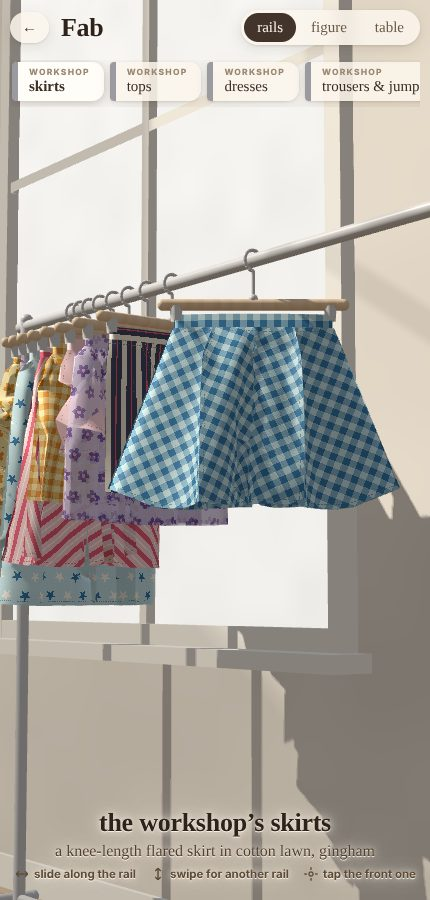
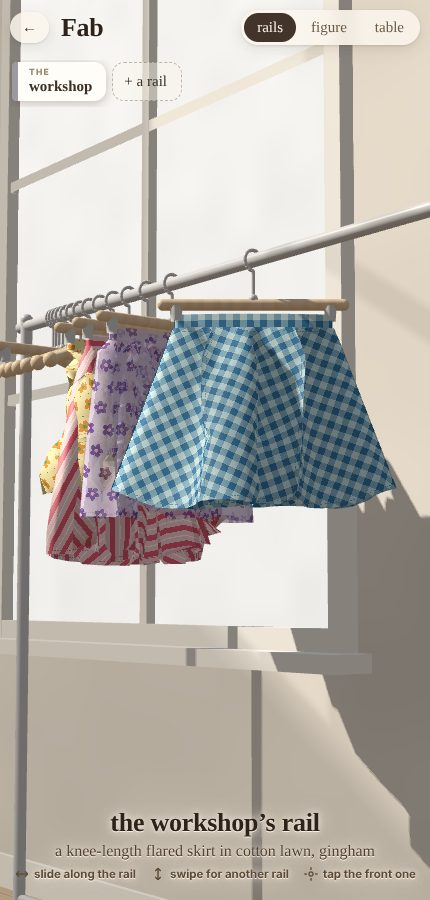
Fab: no idle orbit at the figure, one workshop rail, pin then sew
The figure turns only when turned. The workshop's four rails become one,
fourteen garments (the evidence bench still sews all 27). Sewing now pins
each piece round the figure as posed (sleeves along the arms, trouser legs
along the legs), holds it weightless while the seams close, then takes the
pins out, so a raised arm still goes through its armhole.

Claude-Session: https://claude.ai/code/session_01D2Nx3PayKJtFYoab5A57H3

diff --git a/cells/lab/client/fab/main.ts b/cells/lab/client/fab/main.ts
@@ -3,16 +3,17 @@
  * made. A skirt, a top, a dress, trousers or a jumpsuit, drafted to the figure (garment.ts), sewn up round it and let
  * fall as that cloth falls (cloth.ts): its silhouette, its folds and how it swings are never set, only found.
  *
- * It starts at the rails (rails.ts): along the workshop's wall, the workshop's rails (one for each kind of thing) and one
- * for each person, hung with what's been made. Slide a rail's garments along it, swipe up or down for the next rail,
+ * It starts at the rails (rails.ts): along the workshop's wall, the workshop's own rail (a few of each kind of thing) and
+ * one for each person, hung with what's been made. Slide a rail's garments along it, swipe up or down for the next rail,
  * tap the one in front to put it on the figure; it's taken off its hanger and sewn on, and the camera crosses the room.
  * **save to rail** hangs it back on its owner's rail (or a new rail, asking whose); going back to the **rails** does
  * too, if it's changed.
  *
  * At the figure, drag it round, pinch to come close; the drawer holds what it is (**make**: the kind of thing, and a
  * skirt's tiers), a bodice's neckline, sleeves and collar (**bodice**), trousers' legs (**legs**), and its cloth, print
- * and colour (each made your own with ⚙). **twirl** turns the figure on its stand; **sew** lays the pieces out flat
- * round it and sews them up again. The pattern's pinned up beside it: tap it to take it to the cutting table, where a
+ * and colour (each made your own with ⚙). **twirl** turns the figure on its stand; **sew** pins the pieces in place
+ * round it, as it stands (sleeves round its arms, legs round its legs, whatever the pose), sews them up, then takes
+ * the pins out and lets the cloth fall. The pattern's pinned up beside it: tap it to take it to the cutting table, where a
  * skirt (a dress's too) is made by hand on its paper: slash and spread, fold, gather, close or release a dart, every
  * move recorded. (A top's or trousers' pattern lies on the table to be looked at: moves on those pieces are next.)
  * Across the top, the room's three places: the rails, the figure, the table.
@@ -665,6 +666,21 @@ function setPosing(on: boolean) {
 $('posing').addEventListener('click', () => setPosing(!posing));
 $('unpose').addEventListener('click', () => { unpose(); keepPoses(); toast('standing as it was'); });
 setPosing(posing);
+// (the pins, while a garment's pinned to the figure to be sewn: glass heads, a few to a piece)
+const PIN_COLOURS = ['#d23a4a', '#f2c230', '#3a78c8', '#3f9a5a', '#f4f0e6', '#7a4bb0'];
+const pinEls: HTMLElement[] = [];
+function pinFrame() {
+  const heads = mode === 'bench' && lastVP ? [cloth, ...worn.filter((w) => w.id !== activeItem).map((w) => w.cloth)].flatMap((c) => c?.pinHeads() ?? []) : [];
+  const m = lastVP!;
+  heads.forEach((q, k) => {
+    let el = pinEls[k];
+    if (!el) { el = document.createElement('i'); el.className = 'pinhead'; el.style.background = PIN_COLOURS[k % PIN_COLOURS.length]; $('stage').appendChild(el); pinEls.push(el); }
+    const x = m[0] * q[0] + m[4] * q[1] + m[8] * q[2] + m[12], y = m[1] * q[0] + m[5] * q[1] + m[9] * q[2] + m[13], w = m[3] * q[0] + m[7] * q[1] + m[11] * q[2] + m[15];
+    el.style.display = w > 0 ? '' : 'none';
+    el.style.transform = `translate(${((x / w * 0.5 + 0.5) * canvas.clientWidth).toFixed(1)}px, ${((1 - (y / w * 0.5 + 0.5)) * canvas.clientHeight).toFixed(1)}px)`;
+  });
+  for (let k = heads.length; k < pinEls.length; k++) pinEls[k].style.display = 'none';
+}
 /** the figure's own frame to the room's: turned on its stand */
 const turned = (p: [number, number, number], a: number): [number, number, number] => { const c = Math.cos(a), s2 = Math.sin(a); return [p[0] * c + p[2] * s2, p[1], -p[0] * s2 + p[2] * c]; };
 /** where a joint is on the screen (css pixels), or null */
@@ -773,15 +789,15 @@ function loadOutfit(){
 const madeNow = () => JSON.stringify({ d, rec });
 let lastVP: Float32Array | null = null, toastT = 0, lastFront = -1;
 const toast = (t: string) => { const el = $('toast'); el.textContent = t; el.classList.add('show'); clearTimeout(toastT); toastT = window.setTimeout(() => el.classList.remove('show'), 2400); };
-const railName = (r: Rail) => (r.workshop ? (r.id === 'workshop' ? 'the workshop’s skirts' : `the workshop’s ${r.name.replace(/^the workshop: /, '')}`) : /rail/i.test(r.name) ? r.name : `${r.name}’s rail`);
+const railName = (r: Rail) => (r.workshop ? 'the workshop’s rail' : /rail/i.test(r.name) ? r.name : `${r.name}’s rail`);
 
 function railUI() {
   const tags = $('railtags'); tags.innerHTML = '';
   room.states.forEach((st, k) => {
     const b = document.createElement('button'); b.className = `tag${k === room.active ? ' on' : ''}`;
     b.style.setProperty('--c', st.rail.workshop ? '#9a9aa0' : RAIL_COLOURS[st.rail.colour % RAIL_COLOURS.length].css);
-    // (the workshop's own rails, one for each kind of thing, marked as the workshop's: a person's rail is just their name)
-    if (st.rail.workshop) { b.classList.add('ws'); b.innerHTML = `<small>workshop</small>${st.rail.id === 'workshop' ? 'skirts' : st.rail.name.replace(/^the workshop: /, '')}`; }
+    // (the workshop's own rail, marked as the workshop's: a person's rail is just their name)
+    if (st.rail.workshop) { b.classList.add('ws'); b.innerHTML = '<small>the</small>workshop'; }
     else b.textContent = st.rail.name;
     b.addEventListener('click', () => {
       // (tap your own rail's tag again to rename it; clear its name to take it away)
@@ -1193,7 +1209,8 @@ function frame(now: number) {
     // (looking at what's made: a skirt's or trousers' middle, a top's chest)
     const ty = qs.has('ty') ? BENCH_VIEW.target[1] : { skirt: 62, top: 82, dress: 70, trousers: 50, jumpsuit: 66 }[d.family];
     view.target[1] += (ty - view.target[1]) * (1 - Math.exp(-dt * 4));
-    if (!drag && !posing) { idle += dt; if (preview || idle > 8) view.az += dt * 0.1; }
+    // (it turns by itself only as the index's preview: at the figure, it stays where it's left)
+    if (preview) view.az += dt * 0.1;
   }
   if (mode === 'rails') { room.update(dt, 7); if (room.front() !== lastFront) railInfo(); }
   // (at the table, now and then: how big a fingertip is on the sheet from here, so its handles and badges are drawn a
@@ -1239,7 +1256,7 @@ function frame(now: number) {
   const shiftGoal = mode==='rails'?0: Math.min(canvas.clientHeight*.6,$('bench').getBoundingClientRect().height) / Math.max(1,canvas.clientHeight);
   view.shift += (shiftGoal - view.shift) * Math.min(1, dt * 6);
   lastVP = R.frame(view, items, w, h, cloth?.spin ?? 0, fit).vp;
-  poseFrame();
+  poseFrame(); pinFrame();
   renderMs = renderMs * 0.9 + (performance.now() - r0) * 0.1;
   frames++; framesWindow++; wallWindow += raw; wallTime += raw;
   // (once a second: the whole frame on this device, not only the cloth's part of it)
@@ -1273,7 +1290,7 @@ if (qs.has('twirl')) twirlUntil = performance.now() + 3200;
   // (for tests: the whole pattern's hems that can be worked with the tool in hand, where on the sheet)
   wholeHems: () => editor.handles.map(h=>({key:h.key,mid:[h.x,h.y]})),
   pieces: () => { const dpr = SHEET_W / Math.max(1, wholeCv.clientWidth); return laid.map((l) => ({ name: l.piece.name, mid: l.to(l.piece.flat(0.5, 0.5)).map((x) => x * dpr) })); },
-  pickWorn, jointOnScreen, setPosing, posedByHand,
+  pickWorn, jointOnScreen, setPosing, posedByHand, bend, gripAt, age: () => cloth?.age ?? 0,
   editor, journal:()=>journal, outfit:()=>worn.map(w=>({id:w.id,family:w.d.family,active:w.id===activeItem,health:w.cloth?.health()})),selectItem,
   // (for tests: where a point in the room is on the screen; where a point of the paper's sheet is)
   roomToScreen: (q: [number, number, number]) => { const m = lastVP!, x = m[0] * q[0] + m[4] * q[1] + m[8] * q[2] + m[12], y = m[1] * q[0] + m[5] * q[1] + m[9] * q[2] + m[13], w = m[3] * q[0] + m[7] * q[1] + m[11] * q[2] + m[15], r = canvas.getBoundingClientRect(); return [r.left + (x / w * 0.5 + 0.5) * r.width, r.top + (1 - (y / w * 0.5 + 0.5)) * r.height]; },

diff --git a/cells/lab/client/fab/cloth.ts b/cells/lab/client/fab/cloth.ts
@@ -25,6 +25,8 @@
  *   to meet.
  */
 import * as body from './body';
+/** how long the pins hold (s) while the seams close (they're drawn closed over the first 0.8 s), and how long they take to come out */
+const PIN_HOLD = 1.1, PIN_OUT = 0.5;
 import { physical, stiffAt, type Fabric } from './fabric';
 import type { At, Piece } from './pattern';
 
@@ -70,6 +72,22 @@ export class Cloth {
   rad!: Float32Array;
   collider: Collider | null; self: boolean; floor: boolean;
   age = 0;
+  /**
+   * Pinned, as a dressmaker pins the pieces on a stand before sewing: a few points inside each piece (clear of its
+   * edges, which the seams need) held where it was laid round the figure, in the figure's own frame, and the cloth
+   * weightless, while the seams are drawn closed; then the pins come out and it falls into its drape. So a sleeve's
+   * sewn round the arm it was laid on, however the arm's posed, and can't slip off it before it's a tube.
+   */
+  pinI = new Int32Array(0); pinAt = new Float32Array(0);
+  /** how pinned it still is, 1 → 0 */
+  pinned(): number { if (!this.pinI.length) return 0; const t = (this.age - PIN_HOLD) / PIN_OUT; return t <= 0 ? 1 : t >= 1 ? 0 : 1 - t * t * (3 - 2 * t); }
+  /** where its pins' heads are now (the room's frame), while it's pinned: a few a piece, for the figure to show */
+  pinHeads(): V3[] {
+    if (!this.pinned()) return [];
+    const out: V3[] = [];
+    for (let k = 0; k < this.pinI.length; k += 3) { const i3 = this.pinI[k] * 3; out.push([this.pos[i3], this.pos[i3 + 1], this.pos[i3 + 2]]); }
+    return out;
+  }
   /** goes up every step: whoever draws it knows when it's moved */
   version = 0;
   /** the figure's turn (radians) and how fast it's turning */
@@ -235,12 +253,30 @@ export class Cloth {
     }
     this.s0 = new Float32Array(sa.length);
     for (let c = 0; c < sa.length; c++) this.s0[c] = warm ? 0 : this.gap(c);
+    // (pins: inside each piece, clear of its edges; only for a garment sewn afresh, not one carried on warm)
+    if (!warm) {
+      const pi: number[] = [];
+      for (let k = 0; k < this.grids.length; k++) {
+        const g = this.grids[k];
+        for (const v of [0.3, 0.55, 0.8]) for (const u of [0.3, 0.5, 0.7]) { const i = g.base + Math.round(u * g.nu) + Math.round(v * g.nv) * (g.nu + 1); if (this.inv[i] > 0 && !pi.includes(i)) pi.push(i); }
+      }
+      this.pinI = new Int32Array(pi); this.pinAt = new Float32Array(pi.length * 3);
+      pi.forEach((i, k) => this.pinAt.set(this.toBody(i), k * 3));
+    }
     this.hFrom = new Float32Array(this.hi.length * 3);
     for (let k = 0; k < this.hi.length; k++) this.hFrom.set(this.toBody(this.hi[k]), k * 3);
     this.wait = new Uint8Array(n);
     this.normals();
   }
 
+  /** each pin draws its point back to where it was laid (in the figure's frame, so they turn with it), as firmly as it's still pinned */
+  private pins(pw: number) {
+    const cs = Math.cos(this.spin), sn = Math.sin(this.spin), { pos, pinI, pinAt } = this, k0 = 0.6 * pw;
+    for (let k = 0; k < pinI.length; k++) {
+      const i3 = pinI[k] * 3, x = pinAt[k * 3], y = pinAt[k * 3 + 1], z = pinAt[k * 3 + 2];
+      pos[i3] += (x * cs + z * sn - pos[i3]) * k0; pos[i3 + 1] += (y - pos[i3 + 1]) * k0; pos[i3 + 2] += (-x * sn + z * cs - pos[i3 + 2]) * k0;
+    }
+  }
   /** where a place on a piece is (u, v across and down it), between its four nearest points */
   sample(k: number, u: number, v: number, positions = this.pos): V3 {
     const g = this.grids[k], x = u * g.nu, y = v * g.nv, i = Math.min(g.nu - 1, Math.floor(x)), j = Math.min(g.nv - 1, Math.floor(y)), fx = x - i, fy = y - j, W = g.nu + 1;
@@ -264,6 +300,8 @@ export class Cloth {
     this.lastH=h;
     for (let s = 0; s < S; s++) {
       this.age += h; this.spin += this.omega * h;
+      // (pinned, it's weightless: it falls as the pins come out)
+      const pw = this.pinned(), fall = 1 - pw;
       // (predict: what it's moving, less the air's drag through it, and gravity)
       for (let i = 0; i < n; i++) {
         if (inv[i] === 0) continue;
@@ -273,7 +311,7 @@ export class Cloth {
         vx -= nor[i3] * vn * k; vy -= nor[i3 + 1] * vn * k; vz -= nor[i3 + 2] * vn * k;
         const damp = 1 - 0.6 * h;
         prev[i3] = pos[i3]; prev[i3 + 1] = pos[i3 + 1]; prev[i3 + 2] = pos[i3 + 2];
-        pos[i3] += vx * damp * h; pos[i3 + 1] += (vy * damp - 980 * h) * h; pos[i3 + 2] += vz * damp * h;
+        pos[i3] += vx * damp * h; pos[i3 + 1] += (vy * damp - 980 * h * fall) * h; pos[i3 + 2] += vz * damp * h;
       }
       // (held: eased over half a second from where it was laid to where it's held, and turned with the figure)
       const e0 = Math.min(1, this.age / 0.6), e = e0 * e0 * (3 - 2 * e0), cs = Math.cos(this.spin), sn = Math.sin(this.spin);
@@ -293,6 +331,7 @@ export class Cloth {
         if(it<this.bendIters)this.bending(h2,it===0);
         this.tethers();
         for(let c=0;c<this.sa.length;c++)this.stitch(c,this.s0[c]*sew,1e-8/h2);
+        if (pw > 0) this.pins(pw);
       }
       if (this.self && s % 4 === 3) this.selfCollide();
       if (this.collider || this.floor) for (let i = 0; i < n; i++) if (inv[i] > 0) { if (this.wait[i] > 0) this.wait[i]--; else this.pushOut(i, h, true); }

diff --git a/cells/lab/client/fab/trousers.ts b/cells/lab/client/fab/trousers.ts
@@ -9,7 +9,7 @@
  * - the leg's as wide as the leg there and its room, wider at the hem as it flares; a full-length leg must pass the foot;
  * - the waist, cut as wide as the hips, gathers into a band the waist's round (it must go over the hips).
  */
-import { WAIST_Y, around, section, type V3 } from './body';
+import { WAIST_Y, around, leg as legOf, section, type V3 } from './body';
 import { Cut, TAU, WAIST, clipAt, waistband } from './shared';
 import { clamp, cubic, flipX, line, mirror, patch, type At, type Edge, type P2 } from './edges';
 import { bandAt } from './pattern';
@@ -74,9 +74,11 @@ export function trousers(cut: Cut, d: Design, h: number, o: { joined: boolean })
         const q = cut.pieces[k], [, y] = q.flat(u, v), rw = Math.max(6, q.flat(1, v)[0] - q.flat(0, v)[0]);
         const yb = CROTCH_Y - drop + y, w = clamp(y / (D * 0.45), 0, 1);
         const a = a0 + Math.PI * u, r = rw / Math.PI / 2 + 1.4 + legR(Math.max(6, Math.min(55, yb))) * 0.35;
-        const leg: V3 = [P.leg * 7 + Math.sin(a) * r, yb, Math.cos(a) * r];
+        // (round the leg as it's posed: so far down it from the hip as this height is below the hip standing, on the thigh
+        // or the shin, a ring about the bone with its front to the front, as a dressmaker pins a leg on a stand)
+        const leg = aroundLeg(P.leg, 55 - yb, a, r);
         const t = around(Math.max(PELVIS_Y, yb), th0 + (Math.PI / 2) * u, 1.6);
-        return [leg[0] + (t[0] - leg[0]) * w, yb, leg[2] + (t[2] - leg[2]) * w];
+        return [leg[0] + (t[0] - leg[0]) * w, leg[1] + (yb - leg[1]) * w, leg[2] + (t[2] - leg[2]) * w];
       },
     });
     k = cut.add(pc); idx.push(k);
@@ -114,3 +116,18 @@ export function trousers(cut: Cut, d: Design, h: number, o: { joined: boolean })
 }
 const sub = (a: P2, b: P2): [number, number] => [a[0] - b[0], a[1] - b[1]];
 export type { Edge };
+
+/** a point on a ring of radius r about a posed leg (side ±1), d cm down it from the hip, at angle a round it (0 the front,
+ * +x to the figure's left): standing straight, exactly the ring about a straight leg at x = ±7 */
+function aroundLeg(side: number, d: number, a: number, r: number): V3 {
+  const [th, sh] = legOf(side), sub = (p: V3, q: V3): V3 => [p[0] - q[0], p[1] - q[1], p[2] - q[2]];
+  const lt = Math.hypot(...sub(th.b, th.a)), ls = Math.hypot(...sub(sh.b, sh.a));
+  const [p0, p1, t] = d <= lt ? [th.a, th.b, d / lt] : [sh.a, sh.b, Math.min(1.25, (d - lt) / ls)];
+  const ab = sub(p1, p0), l = Math.hypot(...ab) || 1, ax: V3 = [ab[0] / l, ab[1] / l, ab[2] / l];
+  // (the hip joint sits a little above where the standing leg's cloth starts: measured from the joint, as the bone is)
+  const c: V3 = [p0[0] + ab[0] * t, p0[1] + ab[1] * t, p0[2] + ab[2] * t];
+  const unit = (v: V3): V3 => { const n = Math.hypot(...v) || 1; return [v[0] / n, v[1] / n, v[2] / n]; };
+  const front = unit([-ax[0] * ax[2], -ax[1] * ax[2], 1 - ax[2] * ax[2]]);
+  const side2 = unit([1 - ax[0] * ax[0] - front[0] * front[0], -ax[0] * ax[1] - front[0] * front[1], -ax[0] * ax[2] - front[0] * front[2]]);
+  return [c[0] + r * (Math.cos(a) * front[0] + Math.sin(a) * side2[0]), c[1] + r * (Math.cos(a) * front[1] + Math.sin(a) * side2[1]), c[2] + r * (Math.cos(a) * front[2] + Math.sin(a) * side2[2])];
+}

diff --git a/cells/lab/client/fab/store.ts b/cells/lab/client/fab/store.ts
@@ -1,6 +1,6 @@
 /**
- * The rails: the workshop's own (one for each kind of thing it makes: skirts, tops, dresses, trousers and jumpsuits),
- * hung with garments to start from, and one for each person who makes things here, with what they've made. Kept in this browser (localStorage), so a rail is a person on this device: a family's tablet, a
+ * The rails: the workshop's own (one, hung with a few of each kind of thing it makes: skirts, dresses, tops, trousers
+ * and jumpsuits), to start from, and one for each person who makes things here, with what they've made. Kept in this browser (localStorage), so a rail is a person on this device: a family's tablet, a
  * classroom's. (Nothing leaves it; a private window keeps them only for the visit.)
  */
 import { fromDesign, type Design, type Recipe } from './pattern';
@@ -29,8 +29,8 @@ export const RAIL_COLOURS: Array<{ tint: [number, number, number]; css: string }
 ];
 const d = (x: Partial<Design>): Design => sanitize(x);
 const rail = (id: string, name: string, designs: Array<Partial<Design>>): Rail => ({ id, name, colour: -1, workshop: true, garments: designs.map((x, k) => { const dd = d(x); return { id: `${id}${k}`, design: dd, ...(dd.family === 'skirt' ? { recipe: fromDesign(dd) } : {}), at: 0 }; }) });
-/** the workshop's rails: one of each way of making each kind of thing, in contrasting cloths, to start from */
-export const WORKSHOPS: Rail[] = [
+/** every garment the workshop has drafted, by kind: the evidence bench sews them all */
+export const ALL_WORKSHOP: Rail[] = [
   rail('workshop', 'the workshop', [
     {},
     { method: 'flare', fullness: 1, length: 30, panels: 4, fabric: 'flannel', print: 1, colour: 4 },
@@ -67,6 +67,10 @@ export const WORKSHOPS: Rail[] = [
     { family: 'jumpsuit', fabric: 'jersey', legLen: 30, sleeveLen: 8, neck: 'v', collar: 'band', print: 1, colour: 4 },
   ]),
 ];
+/** the workshop's one rail: a few of each kind, in contrasting cloths, to start from (each keeps its id, so whatever was
+ * taken from the old rails still knows where it came from) */
+const pick: Array<[number, number[]]> = [[0, [0, 2, 5, 8]], [2, [0, 2, 3]], [1, [0, 1, 3]], [3, [0, 1, 5, 6]]];
+export const WORKSHOPS: Rail[] = [{ id: 'workshop', name: 'the workshop', colour: -1, workshop: true, garments: pick.flatMap(([r, ks]) => ks.map((k) => ALL_WORKSHOP[r].garments[k])) }];
 export const WORKSHOP = WORKSHOPS[0];
 
 const KEY = 'fab.rails.v1';

diff --git a/cells/lab/client/fab/evidence.ts b/cells/lab/client/fab/evidence.ts
@@ -24,7 +24,7 @@ import { Cloth, type Build } from './cloth';
 import { FABRICS, fabricById, type Fabric } from './fabric';
 import { DEFAULT_DESIGN, draft, toBuild, type Design, type Method } from './pattern';
 import { describe as describeGarment, draftGarment, poseFor, toBuild as garmentBuild } from './garment';
-import { WORKSHOPS, designOf } from './store';
+import { ALL_WORKSHOP, designOf } from './store';
 import { setPose, distance } from './body';
 
 type V3 = [number, number, number];
@@ -336,7 +336,7 @@ export function garmentTest(count = 300): Section {
 export function sewnTest(): Section[] {
   const rows: Row[] = [];
   let sewn = 0, sound = 0;
-  for (const rail of WORKSHOPS) for (const gm of rail.garments) {
+  for (const rail of ALL_WORKSHOP) for (const gm of rail.garments) {
     const g = draftGarment(designOf(gm), 1600, gm.recipe); poseFor(g);
     const c = new Cloth(garmentBuild(g, fabricById(g.design.fabric)) as Build);
     const t0 = performance.now(); settle(c, 2.5); const ms = (performance.now() - t0) / 150;

diff --git a/cells/lab/static/fab.html b/cells/lab/static/fab.html
@@ -40,6 +40,9 @@
     body:not(.posing) #acts #unpose { display: none; }
     .joint { position: absolute; left: 0; top: 0; width: 18px; height: 18px; margin: -9px 0 0 -9px; border-radius: 50%; border: 2px solid var(--rose); background: rgba(255,250,240,.3); box-shadow: 0 1px 6px rgba(60,30,20,.25); pointer-events: none; z-index: 3; transition: transform .05s linear, background .15s; }
     .joint.held { background: var(--rose); }
+    /* (a pin's glass head, while a garment's pinned on to be sewn) */
+    .pinhead { position: absolute; left: 0; top: 0; width: 7px; height: 7px; margin: -3.5px 0 0 -3.5px; border-radius: 50%; box-shadow: 0 0 0 1px rgba(40,30,20,.35), inset -1px -1px 2px rgba(0,0,0,.25); pointer-events: none; z-index: 3; }
+    body.table .pinhead, body.rails .pinhead { display: none; }
     body:not(.posing) .joint, body.table .joint, body.rails .joint { display: none; }
     #acts #cloth.on { background: var(--dark); color: #fbf3e6; }
     body.sheet #acts #pattern { background: var(--dark); color: #fbf3e6; }

diff --git a/cells/lab/client/fab/body.ts b/cells/lab/client/fab/body.ts
@@ -115,6 +115,8 @@ export const HEAD = { c: L(0, 110, 0.4) as V3, r: 9.6 };
 export const PELVIS = { c: L(0, 52, -0.3) as V3, r: 11.4 };
 /** the arm's capsules on one side (s = ±1): upper arm, forearm */
 export const arm = (s: number): [Capsule, Capsule] => { const k = s < 0 ? 0 : 5; return [LIMBS[k], LIMBS[k + 1]]; };
+/** the leg's capsules on one side (s = ±1): thigh, shin */
+export const leg = (s: number): [Capsule, Capsule] => { const k = s < 0 ? 0 : 5; return [LIMBS[k + 2], LIMBS[k + 3]]; };
 
 // (the sections tabulated every millimetre, read without allocating)
 const ST = new Float32Array(((TORSO_TOP - TORSO_FOOT) * 10 + 2) * 3), S3 = new Float32Array(3);

diff --git a/cells/lab/static/fab.md b/cells/lab/static/fab.md
@@ -304,9 +304,13 @@ All units are centimetres, grams and seconds.
 - **The cloth against itself**: a spatial hash, with each point's radius under half its nearest neighbour's distance.
   Points near seams and folds are exempt, since there they're meant to meet.
 
-**Assembly is shown, not hidden.** The pieces are first laid on a surface of revolution where nothing is stretched:
-its round at each depth is the panels' width there. Then the seams are sewn and the waist is drawn into the band. Press
-**sew** to watch it again.
+**Assembly is shown, not hidden: pinned, then sewn.** Each piece is first put round the figure as it stands, not as
+it would stand: the bodice and skirt round the torso on a surface of revolution where nothing is stretched (its round
+at each depth is the panels' width there), each sleeve round its own arm and each trouser leg round its own leg, along
+the bones wherever they've been posed. So an arm raised over the head still goes through its armhole, and a leg lifted
+at the knee through its leg. Nine pins (the coloured heads) hold each piece where it's placed, weightless, while the
+seams are drawn closed and the waist into the band; at 1.1 s the pins come out over half a second and the cloth falls.
+Press **sew** to watch it again. (A garment changed in place, by a dial or a move, carries its cloth on unpinned.)
 
 ### Why XPBD, and what else was considered
 
@@ -392,7 +396,7 @@ construction, not a look) than children who turn dials to the same skirts.
 | test | claim | result | doesn't establish |
 |---|---|---|---|
 | **5** garments | 752 garments (every neckline × sleeve length × sleeve × collar of a top, a dress and a jumpsuit at both ends of their room and length; trousers' corners; tiered skirts and dresses; 300 at random), 4,308 checks: seams meet as they're meant to (eased, or gathered by as much as meant), pieces cut from curves lie flat, fit across the cloth, clear the body, go on (over the head, past the hand, past the foot) | **holds**: all pass | makeability, as test 1; that a sleeve set in this way hangs as a dressmaker's would |
-| **6** sewn | every garment on the workshop's rails sews up on the figure: seams to within 2.5 cm (0.25 on average), finite, nothing inside it | **holds**: all 27 | that it's sound (6′) |
+| **6** sewn | every garment the workshop makes sews up on the figure: seams to within 2.5 cm (0.25 on average), finite, nothing inside it | **holds**: all 27 | that it's sound (6′) |
 | **6′** sound | the same garments, by the skirt's bar for "sound" (above) | **fails**: 12 of 27 (every plain skirt; 4 of 5 trousers) | how much the stretch under a bodice matters to how it looks or to a child |
 
 Under a bodice, under tiers and where gathers crowd the cloth it stretches more: 13–33% at the 99th percentile, seams
@@ -436,12 +440,14 @@ within 1.1 cm rather than 5 mm. Building the families, the checks caught:
 
 ## The rails
 
-Fab opens on the workshop's wall: a row of clothes rails, each hung with garments on hangers.
+Fab opens on the workshop's wall: a row of clothes rails, each hung with garments on hangers. The figure itself only
+turns when it's turned (by a drag, or **twirl**); it doesn't drift round on its own.
 
 ![the workshop’s rail, the one in front named over the scene](fab/v-rails.jpg)
 
-- **The workshop's rails** are chromed: one each for skirts, tops, dresses, and trousers and jumpsuits, with one of each
-  way of making them in contrasting cloths, to start from.
+- **The workshop's rail** is chromed, and there's one: fourteen garments to start from, a few of each kind (skirts,
+  dresses, tops, trousers and a jumpsuit), each made a different way in a contrasting cloth. (The evidence bench still
+  sews all 27 of the workshop's makes.)
 - **Each person has their own rail**, powder-coated in their own colour, with what they've made. Tap **+ a rail** and
   give it a name.
 
@@ -458,7 +464,7 @@ Using the rails:
 Saving:
 
 - **save to rail** at the bench hangs it back on its owner's rail, its design and its paper's recipe both. One that came
-  from the workshop's rails goes
+  from the workshop's rail goes
   on the rail in use instead, and if nobody has a rail yet, Fab asks whose it is.
 - Going back to the **rails** hangs it up too, if it's changed.
 - Long-press one of your own to take it off the rail.
